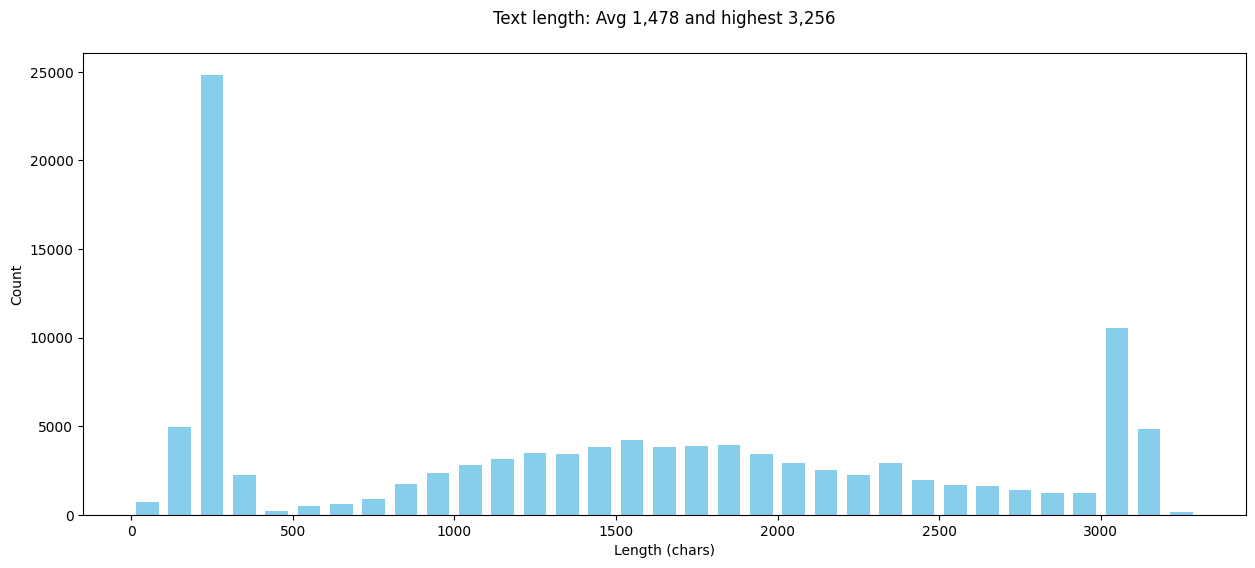
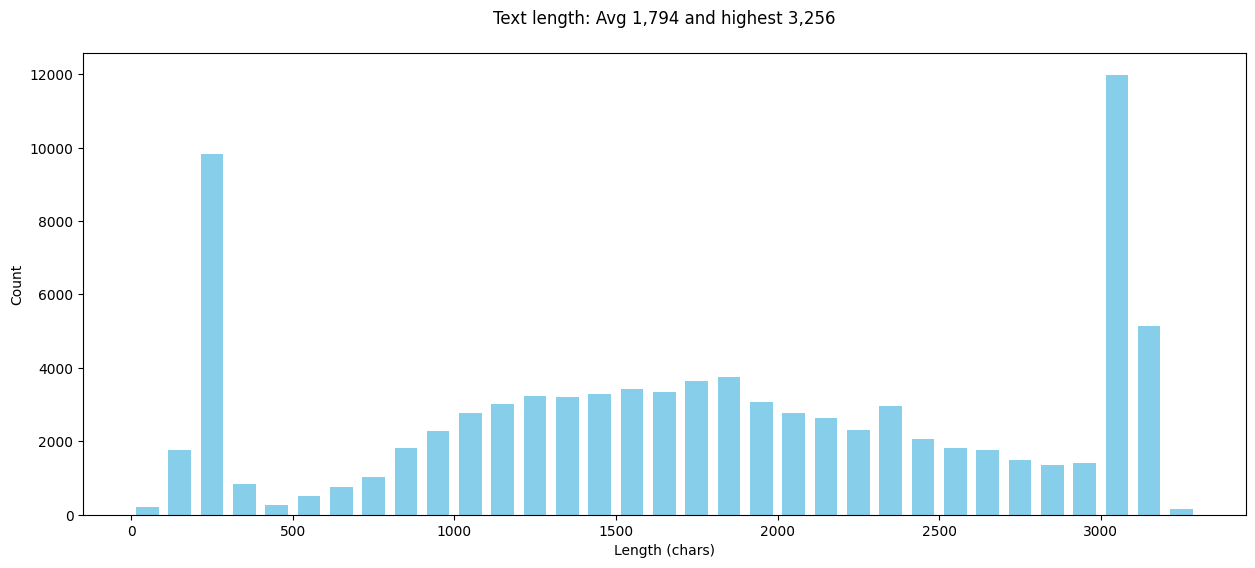
Commit trước khi cào tiếp ở e-commerce khác

diff --git a/scraping_data_tv/Data_processing_for_Vietnamese_data/day1_data_curation.py b/scraping_data_tv/Data_processing_for_Vietnamese_data/day1_data_curation.py
@@ -22,7 +22,7 @@ SCRIPT_DIR = Path(__file__).resolve().parent
 DATA_DIR = SCRIPT_DIR.parent / "Tiki" / "Tiki_dataset_scrape"
 OUTPUT_DIR = SCRIPT_DIR / "output"
 RANDOM_SEED = 42
-HF_DATASET_NAME = "SeanSunny/items_raw_tv"
+HF_DATASET_NAME = "SeanSunny/items_raw_tv_v2"
 TRAIN_SIZE = 80_000
 VAL_SIZE = 5_000
 TEST_SIZE = 5_000

diff --git a/scraping_data_tv/Data_processing_for_Vietnamese_data/day1/2026-04-09-day1-data-curation-vi.md b/scraping_data_tv/Data_processing_for_Vietnamese_data/day1/2026-04-09-day1-data-curation-vi.md
@@ -175,3 +175,32 @@ Hay hoi toi nhung cau hoi can thiet.
 ```
 
 *Cap nhat: 2026-04-10 — Day 1 DONE. EDA reviewed. Chuyen sang Day 0 (thu thap them du lieu) truoc khi re-run Day 1.*
+
+---
+
+## CẬP NHẬT 2026-04-10: Hoàn tất thu thập Tiki & Re-run Day 1 Pipeline
+
+### 1. Trạng thái thu thập dữ liệu Tiki (ĐÃ HOÀN TẤT)
+- Chạy scraper thành công 111/113 categories (thu được **102,117 sản phẩm** thô).
+- Tích hợp thêm dataset Kaggle (**41,603 sản phẩm**).
+- Tổng data Raw đạt **143,263 sản phẩm**. 
+- Quyết định **không cào thêm** 3 categories còn sót lại của Tiki vì số lượng quá ít (~150 SP), không đáng kể.
+
+### 2. Phân tích & Xử lý thành công Data Imbalance và lỗi Category "Root"
+- Dataset Kaggle có hơn 41k dữ liệu mang category là "Root" hoặc sub-category quá chi tiết. Đã map toàn bộ 100% dữ liệu Kaggle này về danh mục "Thời Trang".
+- Bóp gọn 168 parent categories nhỏ lẻ thô thành **8 categories** chuẩn.
+- Áp dụng các ngoại lệ (Override) linh hoạt theo đúng Business Logic: Đưa *Thể thao* vào *Nhà Cửa - Đời Sống*, *Quà lưu niệm* vào *Mẹ và Bé*, v.v.
+
+### 3. Nhận xét sau khi Re-run `day1_data_curation.py`
+- **Deduplication:** Xử lý mất ~6,700 dòng dữ liệu trùng lặp, giữ lại tập 136,545 sản phẩm sạch.
+- **Weighted Sampling (90,000 SP - 80k train / 5k val / 5k test):** Hệ thống Penalty hoạt động **cực kỳ xuất sắc**:
+  - "Thời Trang" (nhận mức phạt 0.35) đã ép dữ liệu giảm mạnh từ 56,170 (39.2% RAW) xuống mức cân bằng 21,659 (24.1% Valid). 
+  - "Nhà Cửa - Đời Sống" (nhận mức phạt 0.50) được duy trì hợp lý ở mức 24,054 (26.7%).
+  - Các danh mục còn lại (Điện tử, Làm đẹp, Mẹ và Bé...) được bảo toàn lượng phân bố một cách lý tưởng.
+- Dataset cuối cùng hoàn toàn sạch sẽ, cân xứng, sẵn sàng đẩy lên Hub bản V2 (`SeanSunny/items_raw_tv_v2`).
+
+### 4. Kết quả biểu đồ EDA (`output/`)
+- Mọi quan sát từ `01_before_dedup`, `02_after_dedup` cho đến `03_after_sampling` trực quan xác định biểu đồ Bar Chart và Pie Chart đã đi từ trạng thái "biến dạng" (Thời trang chiếm gần một nửa tròn xoe) sửa về trạng thái phẳng (flat/balanced) hơn nhiều.
+
+
+## Cần cào thêm dữ liệu từ các trang khác như Hasaki, BiboMart, CoopMart... để tăng số lượng dữ liệu cho các danh mục còn thiếu. 
